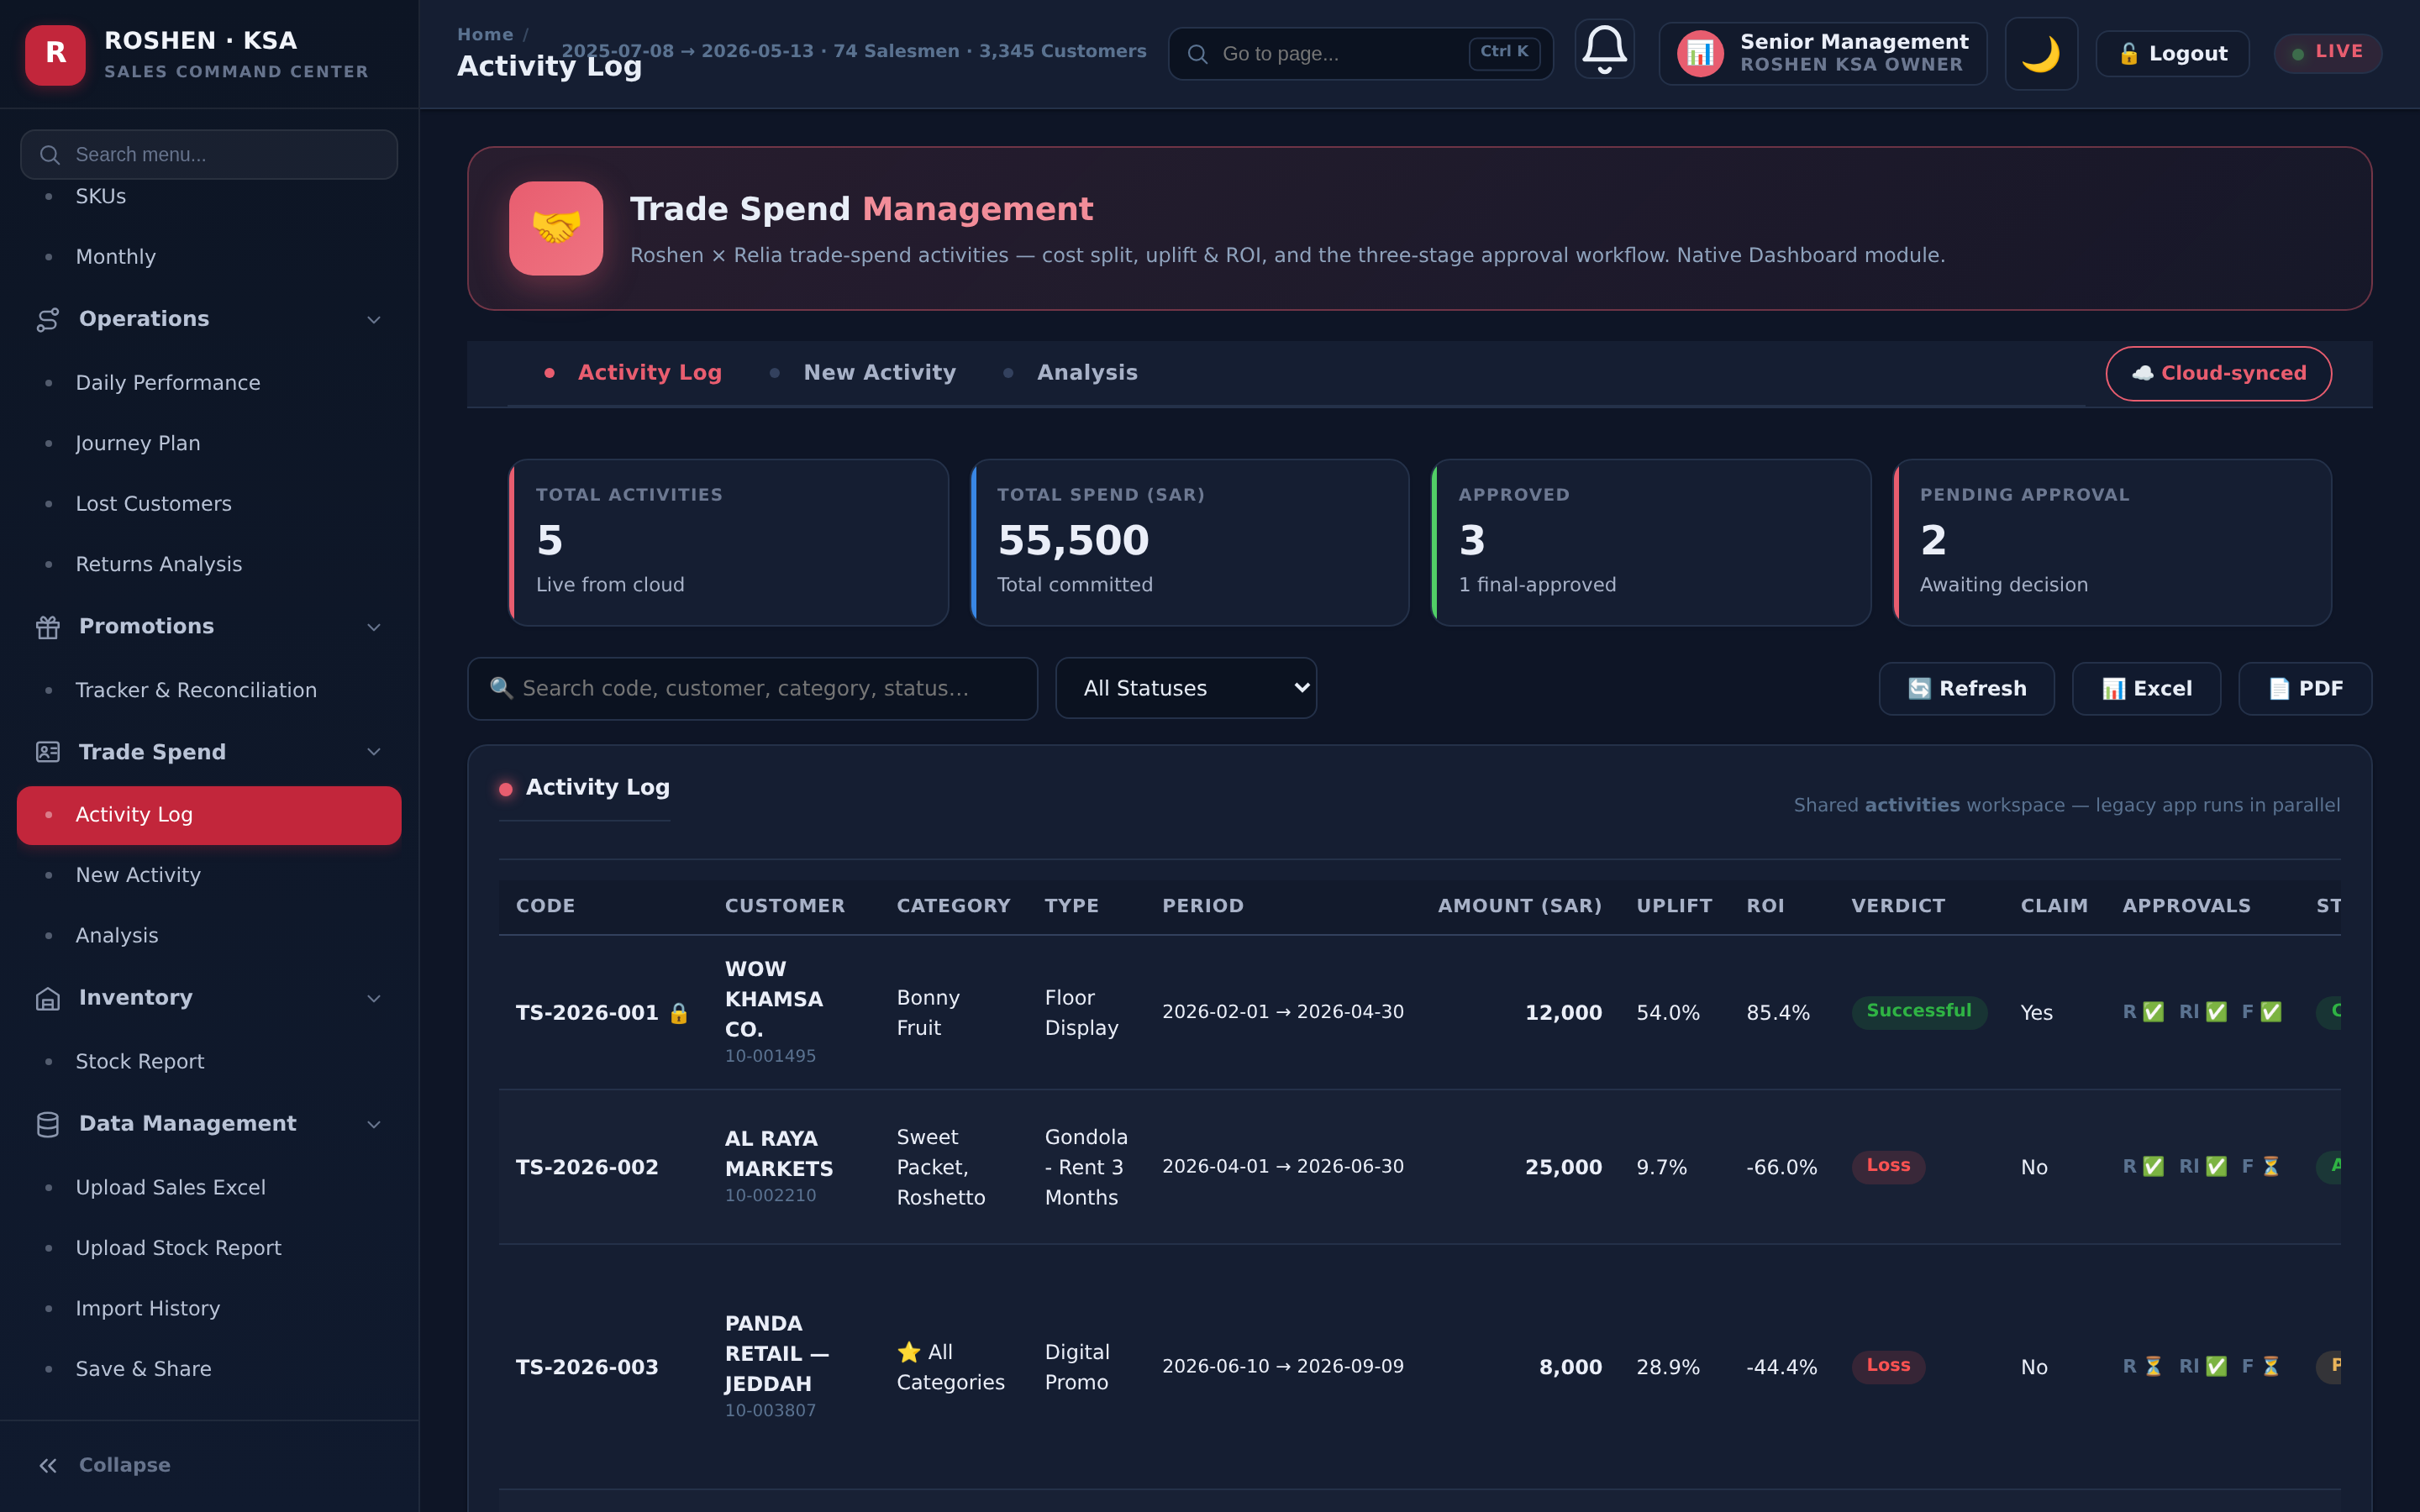
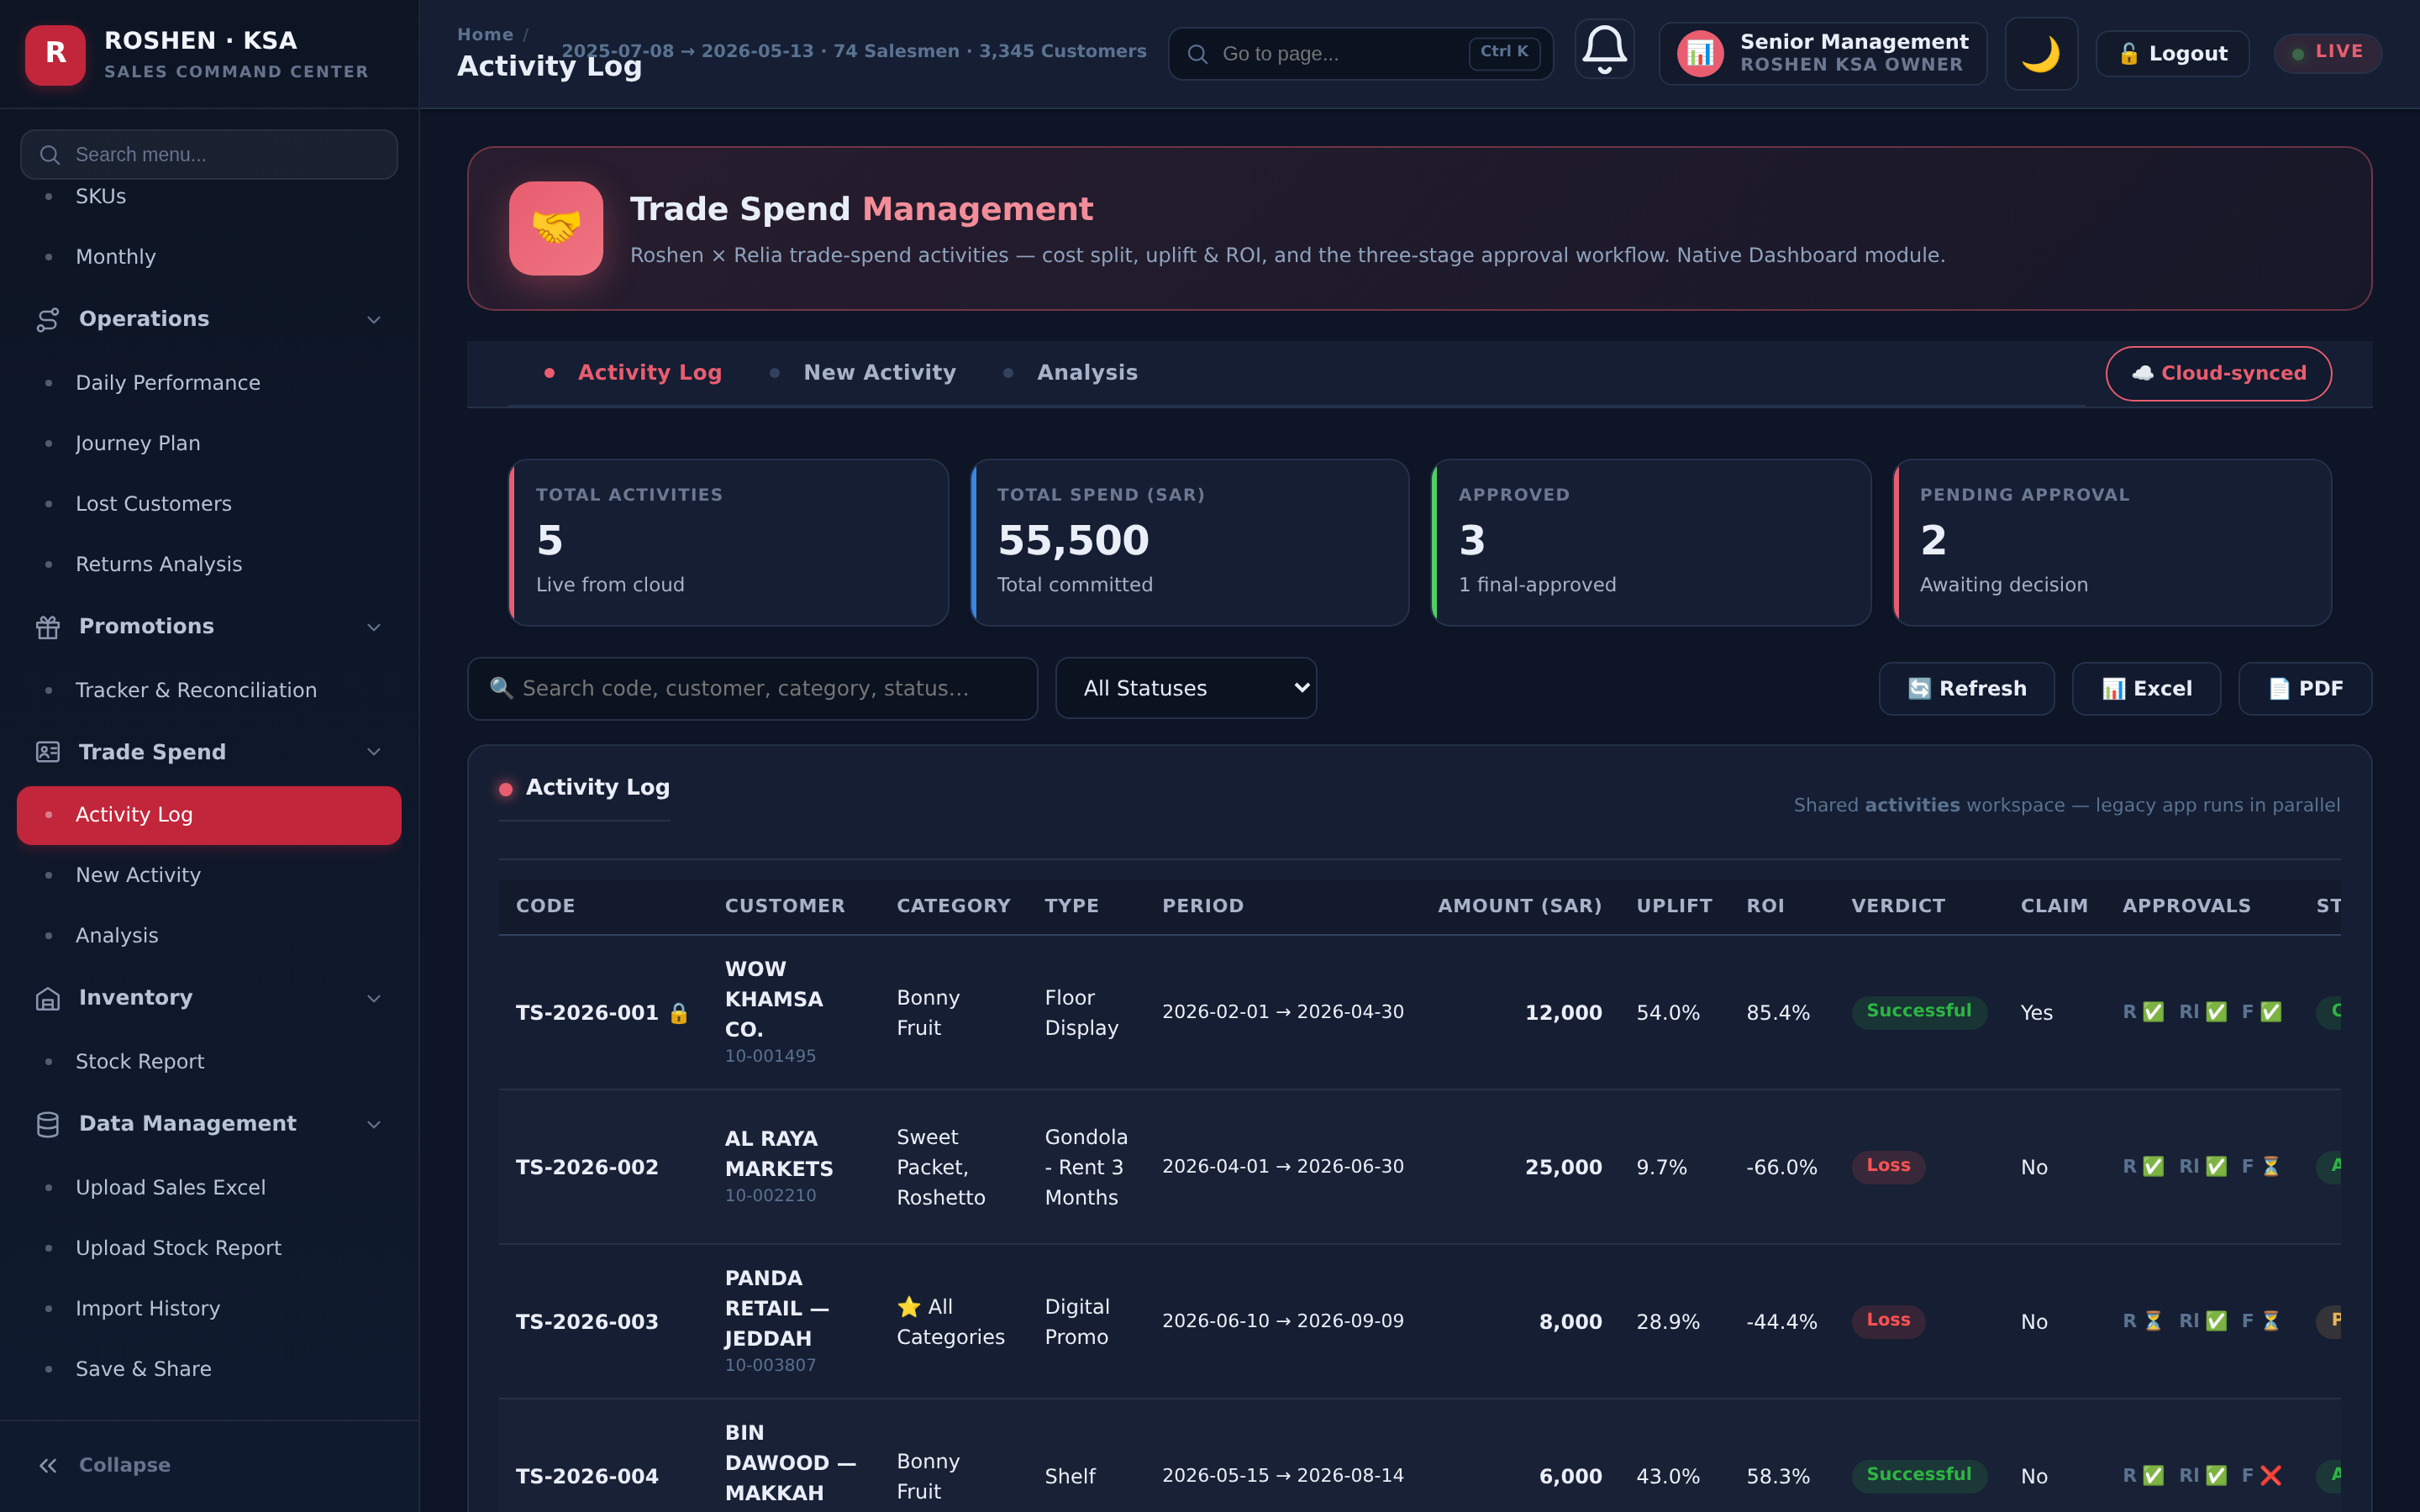
Trade Spend module — M7: DB migrations applied, pure permission-based RBAC
Full implementation authority: all four migrations are now APPLIED to the
Roshen project and the module carries no hardcoded permissions.

Database (verified live):
- dash_sku_master: brand/category/sub_category/segment columns; category +
  brand populated for 75/75 SKUs across the 20-category vocabulary. Source of
  truth = the Dashboard's operational sales dataset, cross-validated against
  Trade Spend history (19/20 exact agreement, 0 disagreements; the Fudgenta
  tie resolved to 'Fudgenta 400 G' by both name evidence and the dataset).
  Two residual rows resolved by product-family/name evidence.
- ts.* permission namespace (9 keys) in dash_permissions; role grants on all
  7 dash roles; person-specific approval rights in dash_users.overrides.ts.
- Final-approver accounts provisioned in dash_users from their existing
  auth.users rows (dash_users.id is FK to auth.users).

Module:
- LEGACY_GRANTS hardcoded table removed — dash RBAC (roles + overrides.ts)
  is the single authorization source; role defaults remain the offline
  fallback. Re-verified: node --check on all inline scripts, 37/37 parity
  tests, DB-override auth path smoke-rendered (approval actions + regression
  round-trip intact).

Repo migrations updated to record the exact applied SQL.
public/trade_spend.html remains untouched.

Claude-Session: https://claude.ai/code/session_01DitwemwCYgEfaG8w6VoqLE

diff --git a/trade-spend-module/src/ts_module.js b/trade-spend-module/src/ts_module.js
@@ -89,17 +89,9 @@ window.TS = (function () {
     sales_rep: ['ts.view', 'ts.create', 'ts.edit'],
     supervisor: ['ts.view']
   };
-  // Legacy-parity person grants — EXACTLY the legacy hardcoded rights. This
-  // layer becomes redundant (and can be removed) once migration 002 populates
-  // dash_users.overrides.ts; DB overrides, when present, take precedence.
-  var LEGACY_GRANTS = {
-    '[email redacted]': { grant: ['ts.approve.roshen'], revoke: [] },
-    '[email redacted]': { grant: ['ts.approve.relia'], revoke: [] },
-    '[email redacted]': { grant: ['ts.approve.final'], revoke: ['ts.create', 'ts.edit', 'ts.delete'] },
-    '[email redacted]': { grant: ['ts.approve.final'], revoke: ['ts.create', 'ts.edit', 'ts.delete'] },
-    '[email redacted]': { grant: ['ts.view', 'ts.create', 'ts.edit', 'ts.delete', 'ts.export', 'ts.admin'], revoke: [] }
-  };
-
+  // Person-specific rights (e.g. who approves the Roshen / Relia / Final
+  // stages) are NOT hardcoded here: they live in dash_users.overrides.ts,
+  // managed by the Dashboard RBAC (seeded by migration 002).
   var auth = {
     email: '',
     role: '',
@@ -124,22 +116,16 @@ window.TS = (function () {
           auth.role = (CLOUD.role || '').toLowerCase();
           applyCapList(ROLE_CAPS[auth.role] || [], true);
           // DB-backed per-user overrides (namespaced): dash_users.overrides.ts
-          // Written by migration 002 (unapplied yet) — tolerated if absent.
+          // — the single authorization source for person-specific rights.
           try {
             var r = await CLOUD.sb.from('dash_users').select('overrides').eq('email', auth.email).maybeSingle();
             var ov = r && r.data && r.data.overrides && r.data.overrides.ts;
             if (ov) {
               applyCapList(ov.grant, true);
               applyCapList(ov.revoke, false);
-            } else if (LEGACY_GRANTS[auth.email]) {
-              applyCapList(LEGACY_GRANTS[auth.email].grant, true);
-              applyCapList(LEGACY_GRANTS[auth.email].revoke, false);
             }
           } catch (e) {
-            if (LEGACY_GRANTS[auth.email]) {
-              applyCapList(LEGACY_GRANTS[auth.email].grant, true);
-              applyCapList(LEGACY_GRANTS[auth.email].revoke, false);
-            }
+            console.warn('TS overrides unavailable — using role defaults only', e);
           }
         } else if (typeof CURRENT_USER !== 'undefined' && CURRENT_USER) {
           // Legacy (file://) Dashboard session: local admin can look around,

diff --git a/trade-spend-module/README.md b/trade-spend-module/README.md
@@ -9,18 +9,18 @@ shared "Roshen" Supabase project (`wrkugzssuoxneftzappa`).
 > renamed, disabled, or deleted. The new module is built **beside** it and must
 > produce **identical** business results before anything is retired.
 
-> **No production changes.** All work is on branch `claude/trade-spend-native-module`.
-> Nothing is deployed. The DB migrations in `migrations/` are **authored but not
-> applied** — they run only after explicit approval.
+> Migrations 001–004 are **applied** to the Roshen project (full implementation
+> authority granted). dash_sku_master now carries category+brand for **75/75**
+> SKUs and is the single source of truth; ts.* permissions live in dash RBAC.
 
 ## Layout
 ```
 trade-spend-module/
-  migrations/   # Roshen-project SQL — AUTHORED, NOT APPLIED
-    001_dash_sku_master_taxonomy.sql        # + brand/category/sub_category/segment (nullable)
-    002_ts_permissions.sql                  # ts.* namespace in dash RBAC
-    003_sku_category_autopopulate.sql       # 6 unambiguous single-category items
-    004_sku_category_conflicts_RESOLUTION_TEMPLATE.sql  # 14 conflicts, await approval
+  migrations/   # Roshen-project SQL — ALL APPLIED (ts_module_001..004)
+    001_dash_sku_master_taxonomy.sql        # + brand/category/sub_category/segment
+    002_ts_permissions.sql                  # ts.* namespace + person overrides in dash RBAC
+    003_category_backfill.sql               # 74-SKU category+brand backfill from the sales dataset
+    004_category_completion.sql             # last 2 rows (spelling variant + new SKU) -> 75/75
   reports/
     SKU_Category_Conflict_Report.docx       # deliverable #8
     sku_category_mapping.csv                # raw item→category mapping (editable)
@@ -43,8 +43,8 @@ Attribution path: `sales_fact.item_code → dash_sku_master.sku → category`.
 `ts.view · ts.create · ts.edit · ts.delete · ts.approve.roshen · ts.approve.relia ·
 ts.approve.final · ts.export · ts.admin`
 
-Person-specific approval rights are granted via a **namespaced** override so
-parallel-run results match the legacy exact-email gating:
+Person-specific approval rights are granted via a **namespaced** override —
+the module contains **no hardcoded emails**; the DB is the only source:
 ```json
 dash_users.overrides = { "ts": { "grant": ["ts.approve.roshen"], "revoke": [] } }
 ```